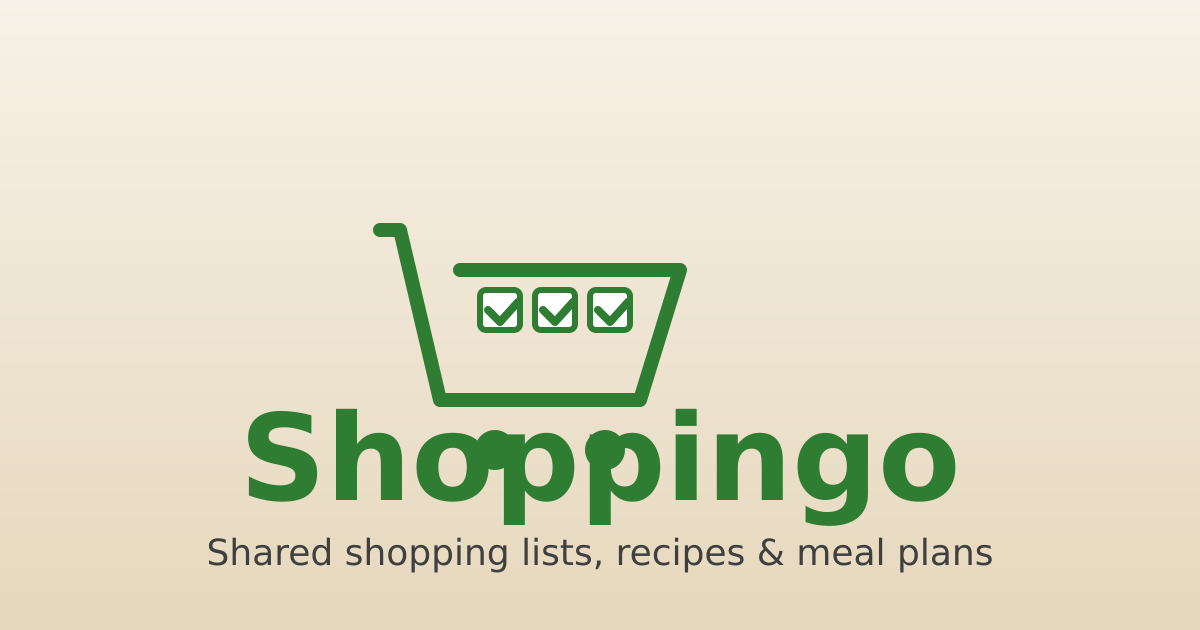
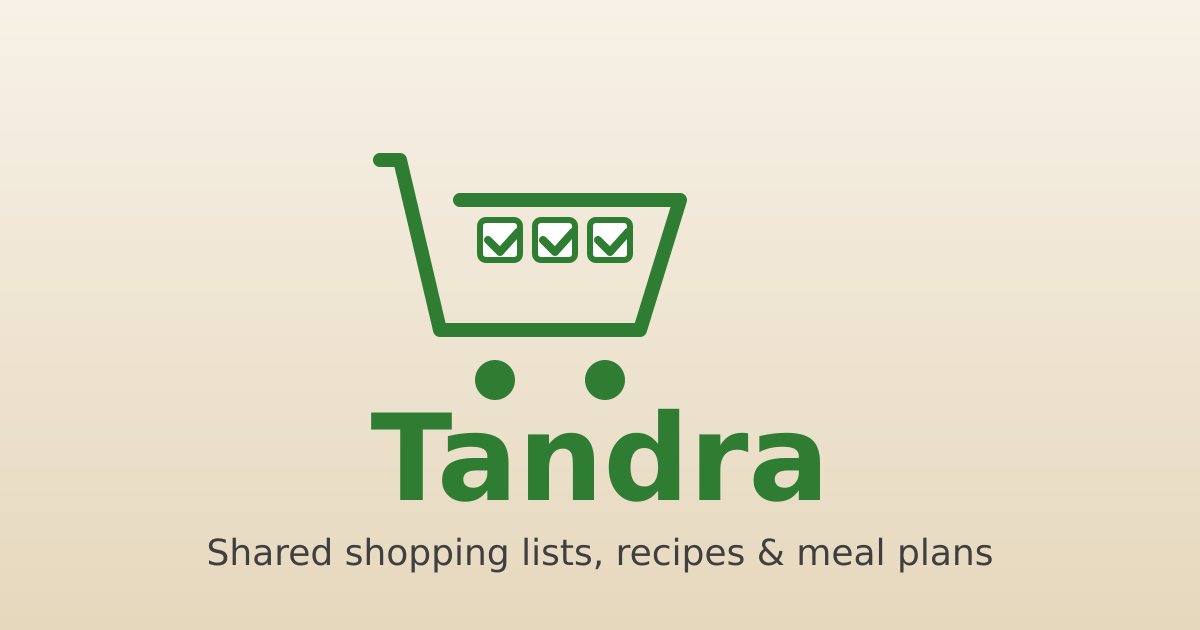
feat: show the Tandra name across the app (#277)
Replace the user-visible Shoppingo name with Tandra: page title, meta,
Open Graph and Twitter tags, PWA manifest name/short_name, the app bar
title, logo alt and What's new label, the loading screen, the site-move
banner, publish and sign-up copy, push notification fallbacks in the
service worker and the CC BY-SA attribution on newly published recipes.
The canonical and og:url point at the marketing site, https://tandra.uk.

Regenerate og.png with the Tandra wordmark (and lift the cart so its
wheels no longer overlap the text).

Storage keys, IndexedDB names, package names, metrics and CORS origins
are unchanged so saved state and infra keep working.

Release-Notes: Shoppingo is now called Tandra: the new name shows across the app, and your lists, recipes and settings are unchanged.

Changed region(s): [[0.185, 0.2413, 0.8017, 0.8444]]

diff --git a/packages/web/index.html b/packages/web/index.html
@@ -3,13 +3,13 @@
     <head>
         <meta charset="UTF-8" />
         <meta name="viewport" content="width=device-width, initial-scale=1.0, viewport-fit=cover, interactive-widget=resizes-content" />
-        <title>Shoppingo</title>
+        <title>Tandra</title>
         <meta
             name="description"
-            content="Shoppingo: shared shopping lists, recipes and weekly meal planning for families and flatmates."
+            content="Tandra: shared shopping lists, recipes and weekly meal planning for families and flatmates."
         />
         <meta name="robots" content="noindex" />
-        <link rel="canonical" href="https://shoppingo.imapps.uk/" />
+        <link rel="canonical" href="https://tandra.uk/" />
         <link rel="icon" type="image/png" href="/logo-192.png" />
         <meta name="theme-color" content="#2e7d32" />
 
@@ -18,8 +18,8 @@
              app.tandra.uk is noindexed so a shared invite link
              (e.g. on WhatsApp) still renders a proper preview card. -->
         <meta property="og:type" content="website" />
-        <meta property="og:site_name" content="Shoppingo" />
-        <meta property="og:title" content="Shoppingo" />
+        <meta property="og:site_name" content="Tandra" />
+        <meta property="og:title" content="Tandra" />
         <meta
             property="og:description"
             content="Shared shopping lists, recipes and weekly meal planning for families and flatmates."
@@ -27,10 +27,10 @@
         <meta property="og:image" content="https://app.tandra.uk/og.png" />
         <meta property="og:image:width" content="1200" />
         <meta property="og:image:height" content="630" />
-        <meta property="og:image:alt" content="Shoppingo: shared shopping lists, recipes and meal plans" />
-        <meta property="og:url" content="https://shoppingo.imapps.uk/" />
+        <meta property="og:image:alt" content="Tandra: shared shopping lists, recipes and meal plans" />
+        <meta property="og:url" content="https://tandra.uk/" />
         <meta name="twitter:card" content="summary_large_image" />
-        <meta name="twitter:title" content="Shoppingo" />
+        <meta name="twitter:title" content="Tandra" />
         <meta
             name="twitter:description"
             content="Shared shopping lists, recipes and weekly meal planning for families and flatmates."
@@ -169,7 +169,7 @@
         <div id="root">
             <div class="loading-screen">
                 <div class="loading-spinner"></div>
-                <p class="loading-title">Shoppingo</p>
+                <p class="loading-title">Tandra</p>
             </div>
         </div>
         <script type="module" src="/src/index.tsx"></script>

diff --git a/packages/web/src/components/SiteMoveBanner/index.tsx b/packages/web/src/components/SiteMoveBanner/index.tsx
@@ -14,8 +14,8 @@ const MoveInstructions = ({ inOldInstall }: { inOldInstall: boolean }) => {
     if (inOldInstall) {
         return (
             <AlertDescription>
-                This is the old Shoppingo app. Open <span className="font-medium">app.tandra.uk</span> in your browser,
-                install it from there, then remove this one to keep getting notifications.
+                This is the old copy of the app. Open <span className="font-medium">app.tandra.uk</span> in your
+                browser, install it from there, then remove this one to keep getting notifications.
             </AlertDescription>
         );
     }
@@ -23,8 +23,8 @@ const MoveInstructions = ({ inOldInstall }: { inOldInstall: boolean }) => {
     return (
         <>
             <AlertDescription>
-                Shoppingo now lives at <span className="font-medium">app.tandra.uk</span>. If you installed it on your
-                home screen or desktop, remove the old one and install it again from here to keep getting notifications.
+                Tandra now lives at <span className="font-medium">app.tandra.uk</span>. If you installed it on your home
+                screen or desktop, remove the old one and install it again from here to keep getting notifications.
             </AlertDescription>
             {canInstall && (
                 <Button className="mt-2" size="sm" onClick={() => void installApp()}>
@@ -68,7 +68,7 @@ const SiteMoveBanner = () => {
                     <div className="flex items-start gap-3">
                         <AlertCircle className="h-5 w-5 mt-[2px]" aria-hidden="true" />
                         <div className="flex-1">
-                            <AlertTitle>Shoppingo has moved</AlertTitle>
+                            <AlertTitle>Tandra has moved</AlertTitle>
                             <MoveInstructions inOldInstall={inOldInstall} />
                         </div>
                         <Button variant="ghost" size="icon" aria-label="Dismiss" onClick={dismiss}>

diff --git a/packages/api/scripts/generate-og.ts b/packages/api/scripts/generate-og.ts
@@ -22,7 +22,7 @@ const svg = `
         </linearGradient>
     </defs>
     <rect width="1200" height="630" fill="url(#g)" />
-    <g transform="translate(380,180)" fill="#2e7d32">
+    <g transform="translate(380,110)" fill="#2e7d32">
         <path d="M0 50 L20 50 L60 220 L260 220 L300 90 L80 90" fill="none" stroke="#2e7d32" stroke-width="14" stroke-linejoin="round" stroke-linecap="round"/>
         <circle cx="115" cy="270" r="20" fill="#2e7d32" />
         <circle cx="225" cy="270" r="20" fill="#2e7d32" />
@@ -33,7 +33,7 @@ const svg = `
         <rect x="210" y="110" width="40" height="40" rx="6" fill="#fff" stroke="#2e7d32" stroke-width="6"/>
         <path d="M218 130 L230 142 L248 122" fill="none" stroke="#2e7d32" stroke-width="8" stroke-linecap="round" stroke-linejoin="round"/>
     </g>
-    <text x="600" y="500" text-anchor="middle" font-family="-apple-system, BlinkMacSystemFont, 'Segoe UI', Roboto, 'Helvetica Neue', Arial, sans-serif" font-size="120" font-weight="700" fill="#2e7d32">Shoppingo</text>
+    <text x="600" y="500" text-anchor="middle" font-family="-apple-system, BlinkMacSystemFont, 'Segoe UI', Roboto, 'Helvetica Neue', Arial, sans-serif" font-size="120" font-weight="700" fill="#2e7d32">Tandra</text>
     <text x="600" y="565" text-anchor="middle" font-family="-apple-system, BlinkMacSystemFont, 'Segoe UI', Roboto, 'Helvetica Neue', Arial, sans-serif" font-size="36" font-weight="500" fill="#3f3f3f">Shared shopping lists, recipes &amp; meal plans</text>
 </svg>
 `.trim();

diff --git a/packages/web/src/components/Appbar/index.tsx b/packages/web/src/components/Appbar/index.tsx
@@ -30,14 +30,14 @@ const Appbar = ({ actions }: AppbarProps) => {
         <header className="bg-primary shadow-md fixed top-0 left-0 right-0 w-full z-50">
             <div className="flex items-center justify-between h-14 md:h-16 px-3">
                 <div className="flex items-center gap-2">
-                    <img src="/logo-192.png" alt="Shoppingo" className="h-9 w-9 md:h-11 md:w-11 rounded-md" />
+                    <img src="/logo-192.png" alt="Tandra" className="h-9 w-9 md:h-11 md:w-11 rounded-md" />
                     <div className="flex flex-col items-start justify-center leading-none">
-                        <span className="text-lg md:text-xl font-bold text-white">Shoppingo</span>
+                        <span className="text-lg md:text-xl font-bold text-white">Tandra</span>
                         {typeof __APP_VERSION__ !== 'undefined' && __APP_VERSION__ && (
                             <button
                                 type="button"
                                 onClick={handleOpen}
-                                aria-label={`What's new in Shoppingo (version ${__APP_VERSION__})`}
+                                aria-label={`What's new in Tandra (version ${__APP_VERSION__})`}
                                 className="mt-0.5 flex items-center gap-1 text-[10px] text-white/70 underline-offset-2 hover:text-white hover:underline"
                             >
                                 v{__APP_VERSION__}

diff --git a/e2e/tests/seo-hygiene.spec.ts b/e2e/tests/seo-hygiene.spec.ts
@@ -28,9 +28,9 @@ test.describe('SEO hygiene', () => {
         await page.goto('/login');
         const head = page.locator('head');
 
-        await expect(head.locator('meta[name="description"]')).toHaveAttribute('content', /Shoppingo/i);
+        await expect(head.locator('meta[name="description"]')).toHaveAttribute('content', /Tandra/i);
         await expect(head.locator('meta[name="robots"]')).toHaveAttribute('content', 'noindex');
-        await expect(head.locator('link[rel="canonical"]')).toHaveAttribute('href', /shoppingo\.imapps\.uk/);
+        await expect(head.locator('link[rel="canonical"]')).toHaveAttribute('href', /tandra\.uk/);
 
         await expect(head.locator('meta[property="og:image:width"]')).toHaveAttribute('content', '1200');
         await expect(head.locator('meta[property="og:image:height"]')).toHaveAttribute('content', '630');

diff --git a/packages/web/src/components/PublishControls/PublishDrawer.tsx b/packages/web/src/components/PublishControls/PublishDrawer.tsx
@@ -57,7 +57,7 @@ export const PublishDrawer = ({ open, onOpenChange, recipeId, recipeTitle, isUpd
 
                     <div className="space-y-4 px-4 pb-2 text-sm">
                         <p className="text-muted-foreground">
-                            Everyone using Shoppingo will be able to find, read and copy this recipe. Only a snapshot is
+                            Everyone using Tandra will be able to find, read and copy this recipe. Only a snapshot is
                             shared: your friends list, who you share this recipe with and later edits stay private
                             {isUpdate ? '. Publishing again replaces the public copy with the current version' : ''}.
                         </p>

diff --git a/packages/web/src/sw.ts b/packages/web/src/sw.ts
@@ -32,7 +32,7 @@ self.addEventListener('push', (event: PushEvent) => {
     try {
         payload = event.data.json();
     } catch {
-        payload = { title: 'Shoppingo', body: event.data.text() };
+        payload = { title: 'Tandra', body: event.data.text() };
     }
 
     // `renotify`/`vibrate` are valid at runtime but absent from the DOM lib's NotificationOptions.
@@ -57,7 +57,7 @@ self.addEventListener('push', (event: PushEvent) => {
             if (focused) {
                 return;
             }
-            await self.registration.showNotification(payload.title ?? 'Shoppingo', options);
+            await self.registration.showNotification(payload.title ?? 'Tandra', options);
         })()
     );
 });

diff --git a/e2e/tests/discover-publish.spec.ts b/e2e/tests/discover-publish.spec.ts
@@ -75,7 +75,7 @@ test.describe('Publishing recipes to Discover', () => {
         await pageB.getByRole('button', { name: new RegExp(TITLE) }).click();
         await expect(pageB.getByRole('heading', { name: TITLE })).toBeVisible();
         await expect(pageB.getByText(/Shared by/)).toHaveCount(0);
-        await expect(pageB.getByRole('region', { name: 'Source' })).toContainText('by a Shoppingo user, CC BY-SA 4.0');
+        await expect(pageB.getByRole('region', { name: 'Source' })).toContainText('by a Tandra user, CC BY-SA 4.0');
         await expect(pageB.getByText('red lentils', { exact: false })).toBeVisible();
 
         // B can report it, and adds it to their own recipes.

diff --git a/packages/web/src/components/WhatsNewDrawer/index.tsx b/packages/web/src/components/WhatsNewDrawer/index.tsx
@@ -46,7 +46,7 @@ const WhatsNewDrawer = ({ open, onOpenChange, highlightSince }: WhatsNewDrawerPr
             <div className="mx-auto flex w-full max-w-sm flex-col h-[70vh] max-h-[70vh]">
                 <DrawerHeader className="flex-shrink-0">
                     <DrawerTitle>What's new</DrawerTitle>
-                    <DrawerDescription>Everything that has shipped in Shoppingo</DrawerDescription>
+                    <DrawerDescription>Everything that has shipped in Tandra</DrawerDescription>
                 </DrawerHeader>
                 <div className="flex-1 overflow-y-auto px-4 pb-6 space-y-5">
                     {releases.length === 0 && (

diff --git a/packages/api/src/domain/DiscoveryPublish/index.test.ts b/packages/api/src/domain/DiscoveryPublish/index.test.ts
@@ -183,7 +183,7 @@ describe('DiscoveryPublishService.publish', () => {
             expect(everything).not.toContain(secret);
         }
         expect(library.get(ref.libraryId)?.publishedBy).toBeUndefined();
-        expect(library.get(ref.libraryId)?.attribution).toBe('"Grandma Soup" by a Shoppingo user, CC BY-SA 4.0');
+        expect(library.get(ref.libraryId)?.attribution).toBe('"Grandma Soup" by a Tandra user, CC BY-SA 4.0');
         // New ingredient ids too: nothing links the copy back to the private ingredients.
         expect(library.get(ref.libraryId)?.ingredients.map((i) => i.id)).not.toContain('p1');
     });

diff --git a/packages/web/src/components/Appbar/index.test.tsx b/packages/web/src/components/Appbar/index.test.tsx
@@ -26,13 +26,13 @@ describe('Appbar', () => {
     it('renders the logo', () => {
         render(<Appbar />);
 
-        expect(screen.getByAltText('Shoppingo')).toBeInTheDocument();
+        expect(screen.getByAltText('Tandra')).toBeInTheDocument();
     });
 
-    it('displays app title "Shoppingo"', () => {
+    it('displays app title "Tandra"', () => {
         render(<Appbar />);
 
-        expect(screen.getByText('Shoppingo')).toBeInTheDocument();
+        expect(screen.getByText('Tandra')).toBeInTheDocument();
     });
 
     it('has fixed positioning styling', () => {

diff --git a/packages/api/src/domain/DiscoveryPublish/index.ts b/packages/api/src/domain/DiscoveryPublish/index.ts
@@ -24,7 +24,7 @@ const ingredientKey = (ingredients: Array<Pick<Ingredient, 'name'>>): string =>
 const publicRecipePath = (libraryId: string): string => `/discover/${libraryId}`;
 
 const attributionFor = (title: string, authorName: string | undefined): string =>
-    `"${title}" by ${authorName ?? 'a Shoppingo user'}, CC BY-SA 4.0`;
+    `"${title}" by ${authorName ?? 'a Tandra user'}, CC BY-SA 4.0`;
 
 /**
  * Publishes a user's own recipe to the shared library as a SNAPSHOT: a new `discoveryRecipes` document that carries
